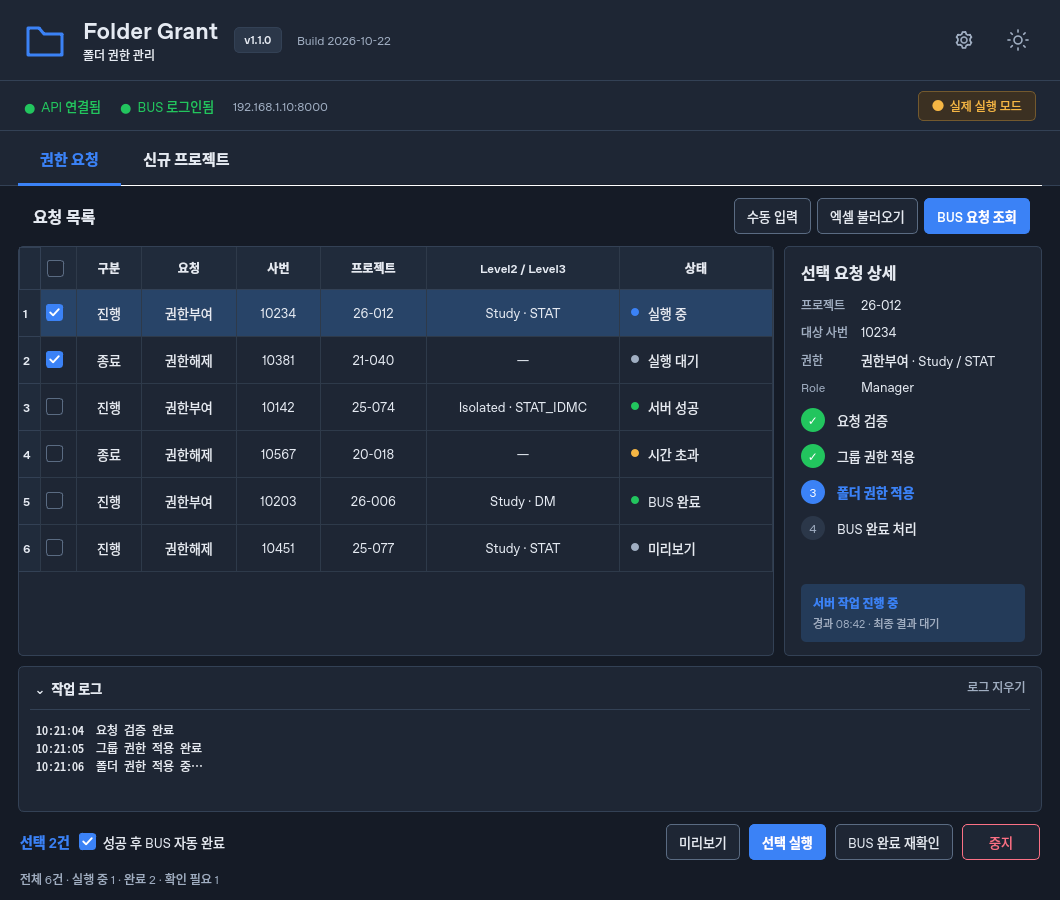
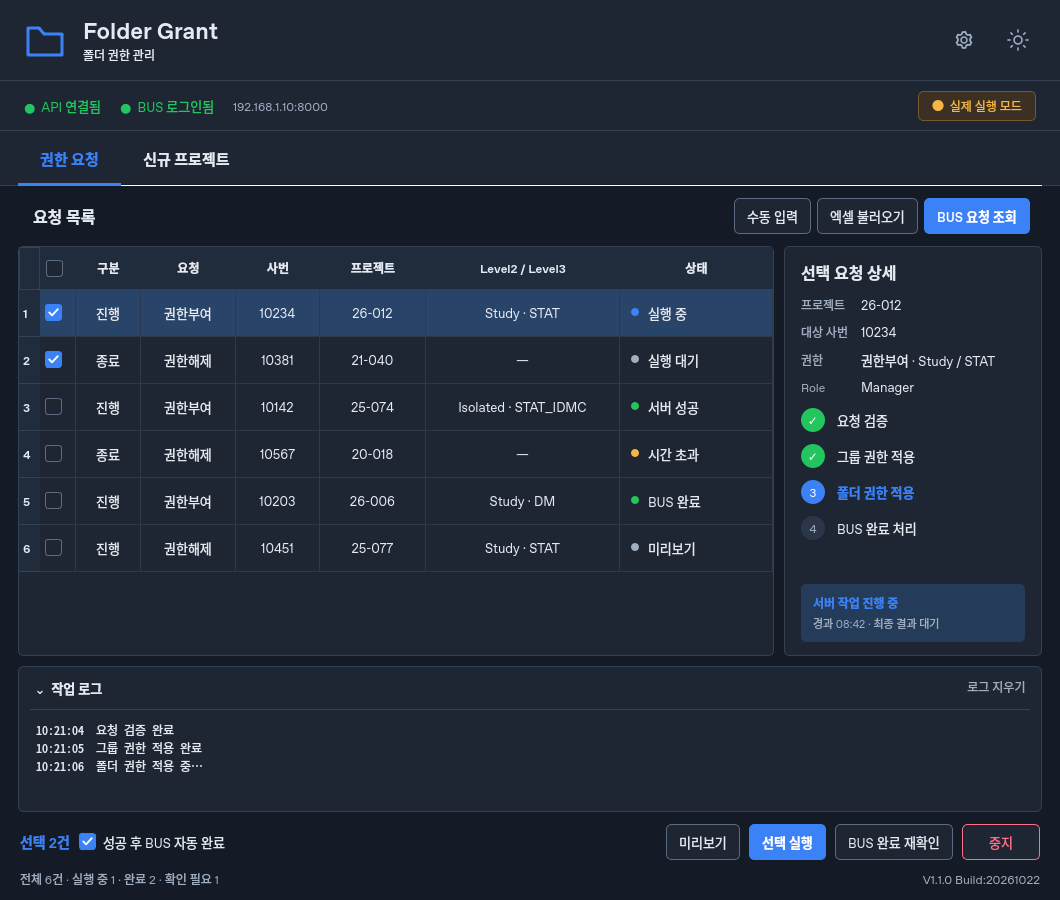
Move plain release text to footer and remove header separators

diff --git a/Client/tests/test_ui_design.py b/Client/tests/test_ui_design.py
@@ -22,8 +22,11 @@ class DesignTests(unittest.TestCase):
     def test_version_and_build_are_visible_in_main_header(self):
         self.assertEqual(self.m.APP_VERSION,'1.1.0')
         self.assertEqual(self.m.APP_BUILD,'2026-10-22')
-        self.assertIn('1.1.0',self.window.version_badge.text())
-        self.assertIn('2026-10-22',self.window.build_label.text())
+        self.assertEqual(self.window.release_label.text(),'V1.1.0 Build:20261022')
+        self.show()
+        w = self.window
+        self.assertGreater(w.release_label.mapTo(w,self.m.QPoint(0,0)).y(),w.btn_stop.mapTo(w,self.m.QPoint(0,0)).y()+w.btn_stop.height())
+        self.assertEqual(w.release_label.alignment(),self.m.Qt.AlignRight|self.m.Qt.AlignVCenter)
 
     def test_approved_layout_has_right_inspector_and_bottom_actions(self):
         self.show()
@@ -200,3 +203,10 @@ class DesignTests(unittest.TestCase):
         self.assertLess(v.btn_manual.x(),v.btn_refresh.x())
         self.assertEqual(v.btn_refresh.objectName(),'primaryButton')
         self.assertNotEqual(v.btn_manual.objectName(),'primaryButton')
+
+    def test_horizontal_headers_have_no_vertical_separator(self):
+        for mode in ('light','dark'):
+            self.window.apply_theme(mode)
+            style = self.window.styleSheet().split('QHeaderView::section {',1)[1].split('}',1)[0]
+            self.assertNotIn('border-right:1px',style)
+            self.assertIn('border-bottom:1px',style)
